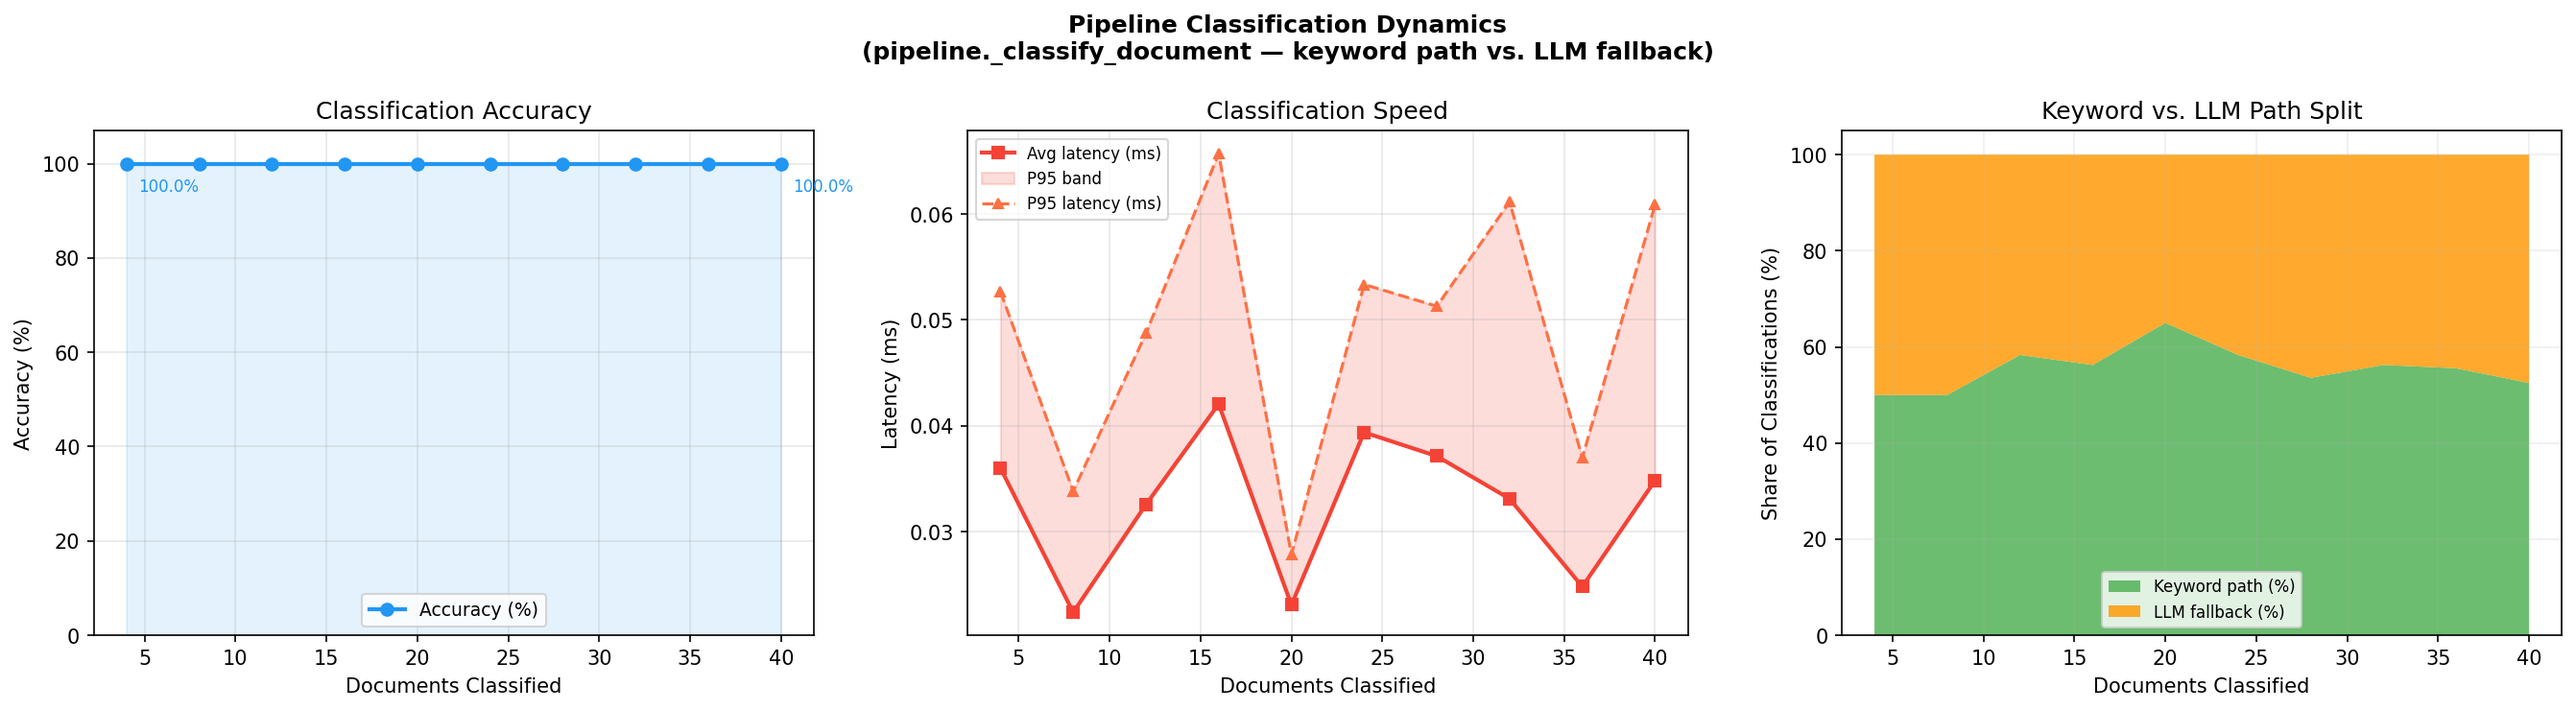
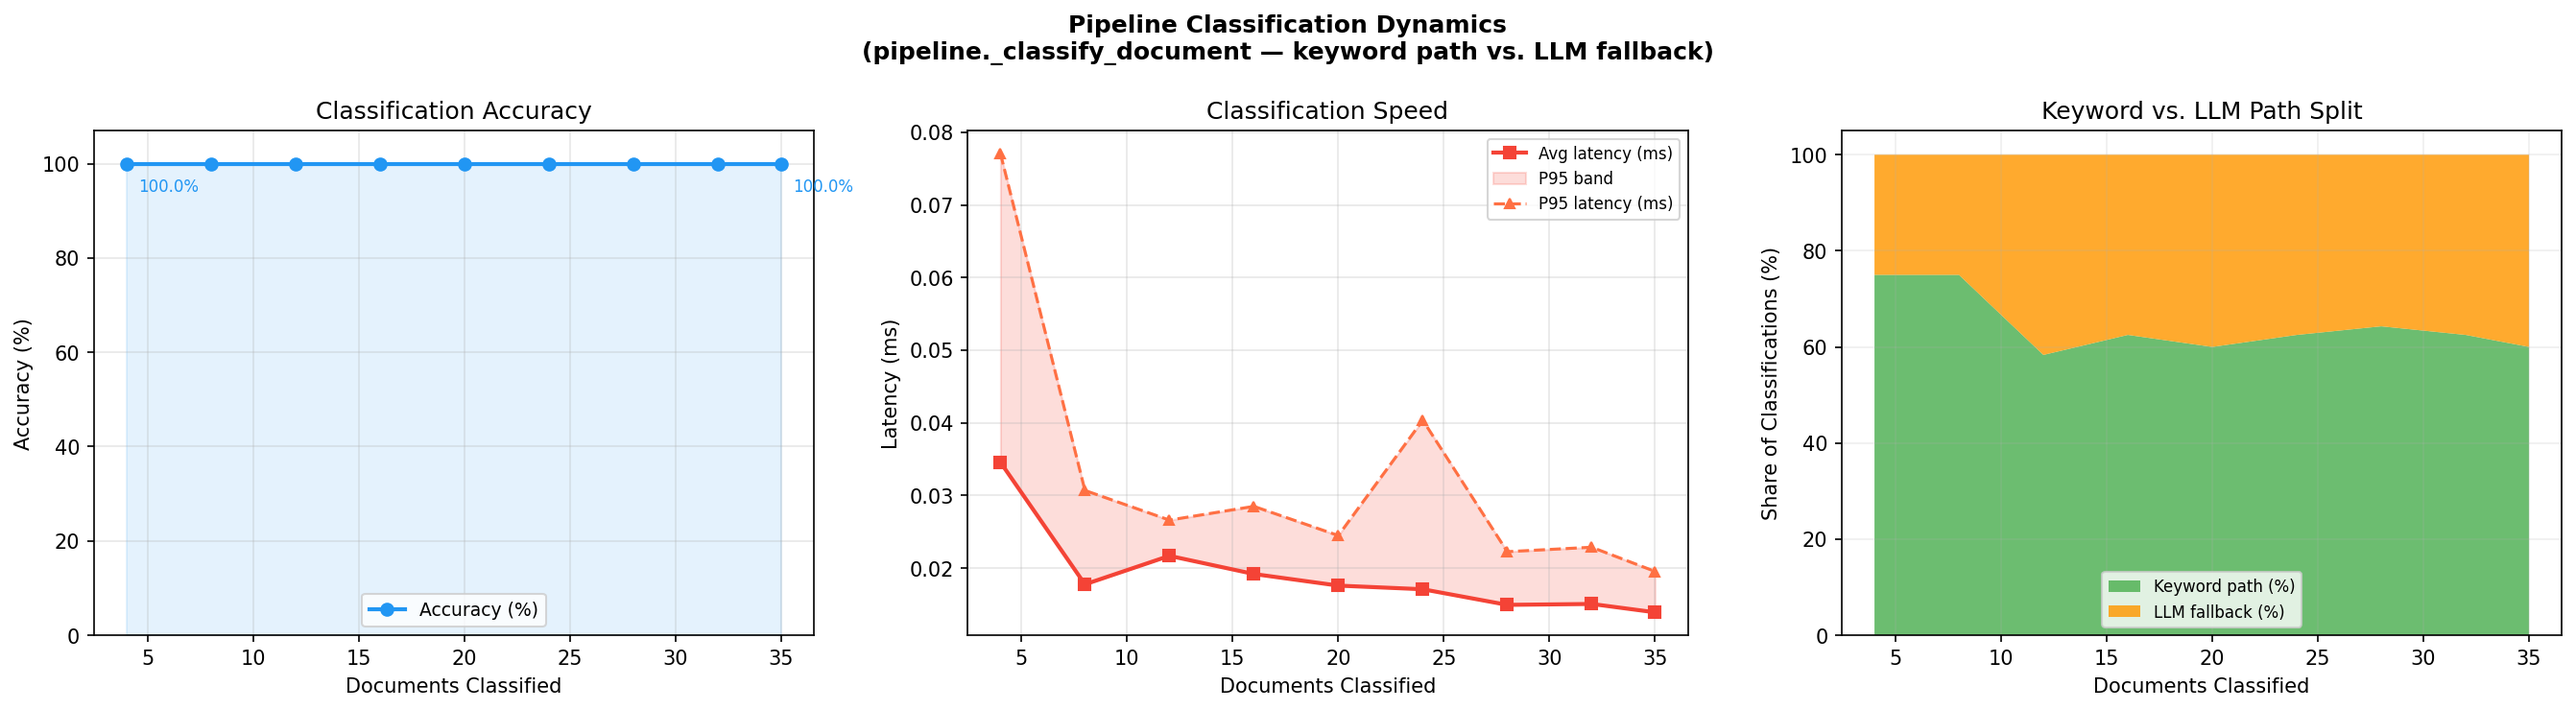
tests: tighten test_embedding_dynamics.py and exclude unknown category

diff --git a/tests/test_embedding_dynamics.py b/tests/test_embedding_dynamics.py
@@ -34,7 +34,7 @@ from rag.pipeline import (  # noqa: E402
     RAGPipeline,
 )
 
-DOCUMENT_TYPES: list[str] = _PHARMA_DOC_CATEGORIES
+DOCUMENT_TYPES: list[str] = [c for c in _PHARMA_DOC_CATEGORIES if c != "unknown"]
 EMBEDDING_DIM: int = 384  # all-MiniLM-L6-v2 dimension
 
 
@@ -80,12 +80,6 @@ _KEYWORD_CORPUS: dict[str, list[str]] = {
         "Chain-of-custody document — sample sealed, temperature logged.",
         "Custody Transfer Record — batch 20240310 — cold chain maintained.",
     ],
-    # "unknown" has no entries in _KEYWORD_MAP so these fall through to LLM
-    "unknown": [
-        "Internal memo — quarterly review meeting notes Q3 2024.",
-        "Project timeline — milestone tracking sheet — Phase 2.",
-        "Employee onboarding checklist — IT setup complete.",
-    ],
 }
 
 # Documents with no keyword signals -> fall through to LLM path
@@ -117,10 +111,6 @@ _AMBIGUOUS_CORPUS: dict[str, list[str]] = {
     "chain_of_custody": [
         "Sample sealed by QC inspector, transferred under continuous cold chain supervision.",
         "Temperature logger attached. Min: 2.1C, Max: 7.9C during transit. No excursions.",
-    ],
-    "unknown": [
-        "Q3 budget allocation — R&D department — EUR 1.2M approved.",
-        "Canteen menu for week 42 — includes vegetarian and vegan options.",
     ],
 }
 
@@ -156,15 +146,12 @@ class MockLLM:
 def _build_llm_map() -> dict[str, str]:
     """
     Map first-60-char snippet -> label for every document that will reach
-    the LLM fallback path (ambiguous docs + "unknown" keyword docs which
-    have no keyword_map entry).
+    the LLM fallback path (ambiguous docs with no keyword_map signal).
     """
     mapping: dict[str, str] = {}
     for label, texts in _AMBIGUOUS_CORPUS.items():
         for text in texts:
             mapping[text[:60]] = label
-    for text in _KEYWORD_CORPUS.get("unknown", []):
-        mapping[text[:60]] = "unknown"
     return mapping
 
 
@@ -455,7 +442,7 @@ class TestPipelineClassificationDynamics:
 
         # ── Assertions ──────────────────────────────────────────────────
         final_acc = df["accuracy_pct"].iloc[-1]
-        assert final_acc >= 85.0, f"Final accuracy {final_acc:.1f}% is too low"
+        assert final_acc >= 95.0, f"Final accuracy {final_acc:.1f}% is too low"
         assert mock_llm.call_count > 0, "LLM should have been invoked for ambiguous docs"
         assert len(store) - mock_llm.call_count > 0, "Keyword path should have fired at least once"
         assert len(store) == len(all_docs)
@@ -557,9 +544,8 @@ class TestPipelineClassificationDynamics:
 
         Assertions
         ----------
-        * Every keyword-corpus doc (except "unknown") resolves without an LLM call.
+        * Every keyword-corpus doc resolves without an LLM call.
         * Every ambiguous-corpus doc triggers exactly one LLM call.
-        * "unknown" keyword docs (no keyword_map entry) also trigger an LLM call.
         """
         mock_llm = MockLLM(_build_llm_map())
         classifier = MinimalClassifier(mock_llm)
@@ -569,22 +555,15 @@ class TestPipelineClassificationDynamics:
         expected_llm_calls = 0
 
         for doc_type in DOCUMENT_TYPES:
-            # Keyword corpus
+            # Keyword corpus — all named-category docs have keyword signals
             for text in _KEYWORD_CORPUS.get(doc_type, []):
                 llm_before = mock_llm.call_count
                 predicted = classifier.classify_document(text)
                 store.add(text, predicted, doc_type, make_embedding(rng, doc_type))
 
-                if doc_type == "unknown":
-                    # No keyword_map entry for "unknown" -> must fall to LLM
-                    expected_llm_calls += 1
-                    assert mock_llm.call_count == expected_llm_calls, (
-                        f"'unknown' keyword doc should have gone to LLM: {text[:50]}"
-                    )
-                else:
-                    assert mock_llm.call_count == llm_before, (
-                        f"Keyword doc should NOT trigger LLM: {text[:50]}"
-                    )
+                assert mock_llm.call_count == llm_before, (
+                    f"Keyword doc should NOT trigger LLM: {text[:50]}"
+                )
 
             # Ambiguous corpus — all should use LLM
             for text in _AMBIGUOUS_CORPUS.get(doc_type, []):
